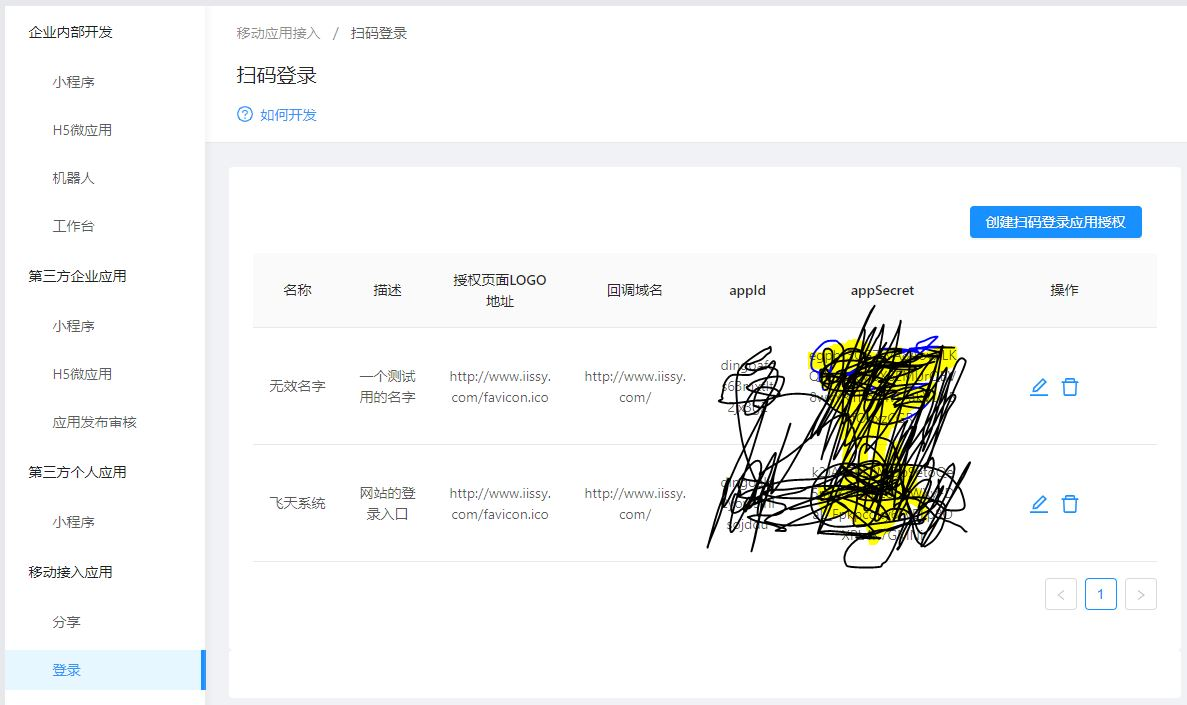
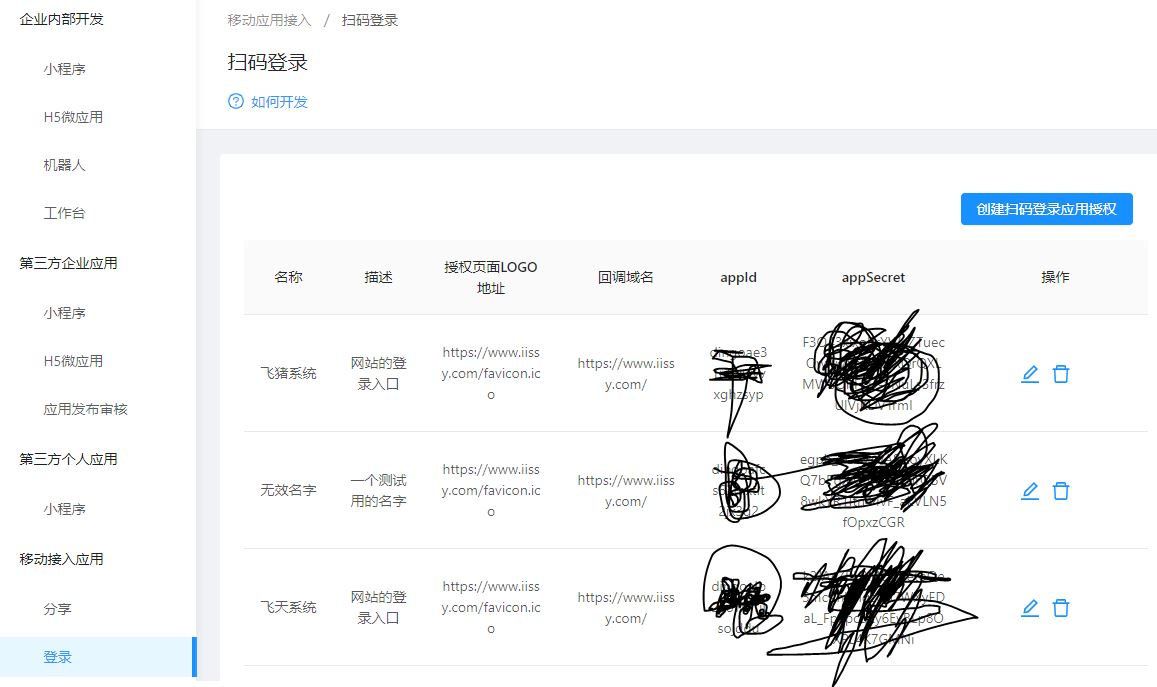
layout

diff --git a/src/views/login.vue b/src/views/login.vue
@@ -8,10 +8,10 @@
         <div style="color:#666666;font-weight: 300;margin-top: 20px;width: 100%;background-color: #ffffff;padding: 20px;flex: 0 0 auto;">
           <div>在钉钉开放平台 -> 创建扫码登录应用授权</div>
           <div style="font-style: italic;">
-            授权页面LOGO地址：http://www.iissy.com/favicon.ico
+            授权页面LOGO地址：https://www.iissy.com/favicon.ico
           </div>
           <div style="font-style: italic;">
-            回调域名: http://www.iissy.com/
+            回调域名: https://www.iissy.com/
           </div>
           <div style="font-style: italic;color: #d71b29;">
             如果以前已经完成了第一步，第二步，可以直接到第三步生成扫码连接登陆
